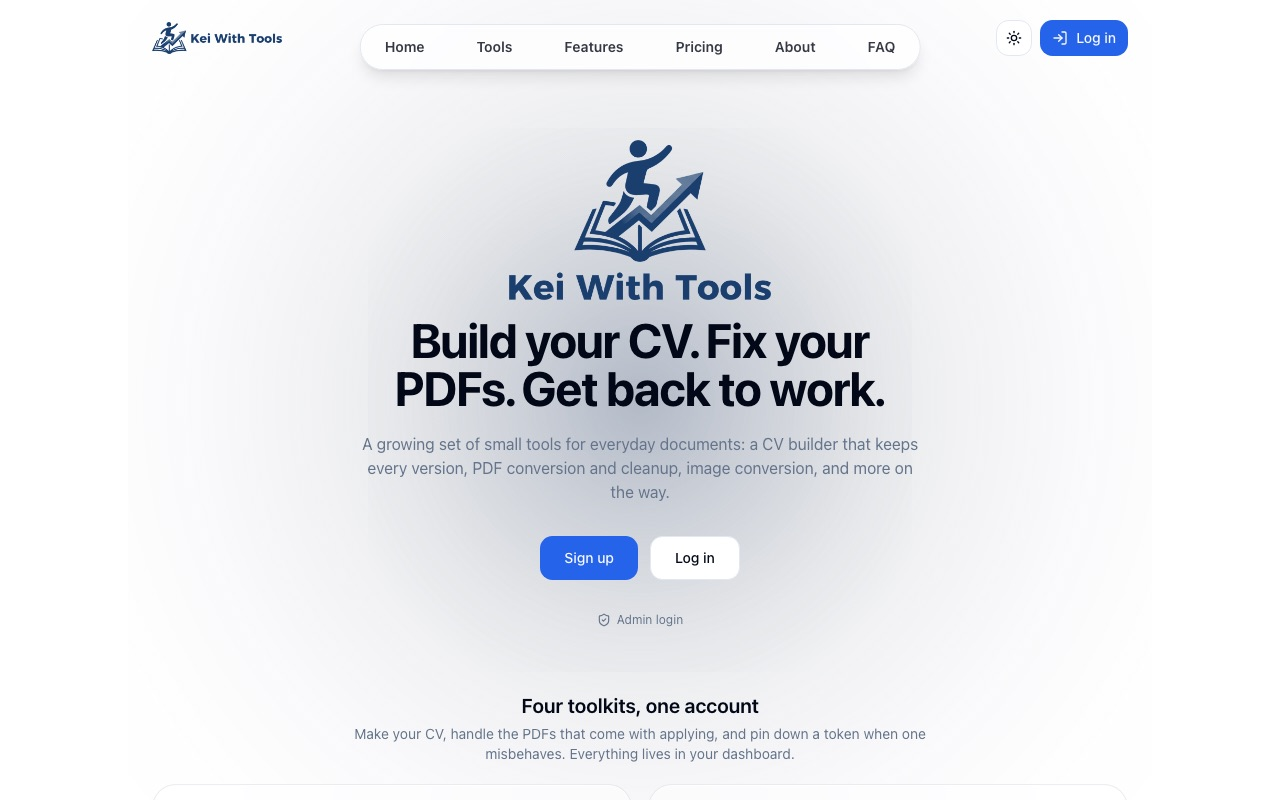
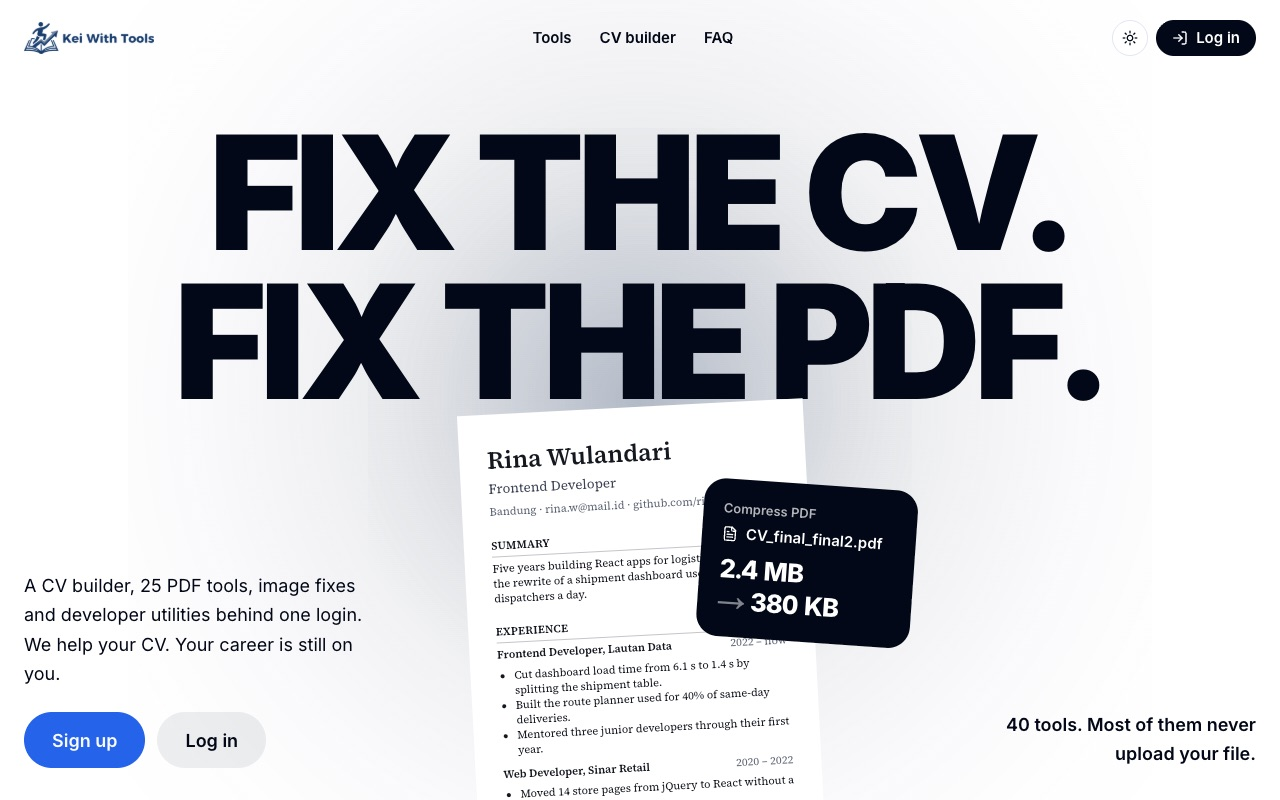
feat(frontend): refresh project screenshots and copy
HelpMyCV: new landing screenshot, 36-tool count, master CV + Edit with AI, Next.js 16.
Undangan+: new screenshot, typed narratives, background music and QRIS.
Jastip: Next.js 16.

diff --git a/packages/shared/src/projects.ts b/packages/shared/src/projects.ts
@@ -31,20 +31,20 @@ export const projects: Project[] = [
     slug: 'helpmycv',
     name: 'Kei With Tools',
     tagline: {
-      en: 'CV builder + 37 PDF, image & developer tools in one account.',
-      id: 'CV builder + 37 alat PDF, gambar & developer dalam satu akun.',
+      en: 'CV builder + 36 PDF, image & developer tools behind one login.',
+      id: 'CV builder + 36 alat PDF, gambar & developer dalam satu akun.',
     },
     description: {
-      en: 'A web app to build and keep many CV versions in one place, with AI-assisted drafting, an A4 live preview, and a growing toolbox that mostly runs in the browser.',
-      id: 'Web app untuk membuat dan menyimpan banyak versi CV di satu tempat, dengan bantuan AI, preview A4 langsung, dan kumpulan alat yang sebagian besar berjalan di browser.',
+      en: 'A web app to keep one master CV and a tailored copy for every job you apply to, with AI that drafts and rewrites on request, an A4 live preview, and a toolbox where most tools never upload your file.',
+      id: 'Web app untuk menyimpan satu CV master dan salinan yang disesuaikan untuk tiap lamaran, dengan AI yang membuat draf dan menulis ulang sesuai perintah, preview A4 langsung, dan kumpulan alat yang sebagian besar tidak meng-upload file kamu.',
     },
     url: 'https://helpmycv-frontend.keianggoro12.workers.dev/',
     image: '/projects/helpmycv.jpg',
-    stack: ['Next.js 15', 'React 19', 'Hono', 'Cloudflare Workers', 'D1', 'R2', 'GitHub Actions'],
+    stack: ['Next.js 16', 'React 19', 'Hono', 'Cloudflare Workers', 'D1', 'R2', 'GitHub Actions'],
     features: [
-      { en: 'Schema-based CV editor with A4 preview and pagination', id: 'Editor CV berbasis skema dengan preview A4 dan pagination' },
-      { en: 'Auto CV from a description or an uploaded CV (OpenAI, Anthropic, Gemini)', id: 'Auto CV dari deskripsi atau CV yang di-upload (OpenAI, Anthropic, Gemini)' },
-      { en: '27 PDF tools, 6 image tools, 4 developer tools', id: '27 alat PDF, 6 alat gambar, 4 alat developer' },
+      { en: 'One master CV, copied and adjusted per job, in a schema-based editor with A4 preview and pagination', id: 'Satu CV master, disalin dan disesuaikan per lamaran, di editor berbasis skema dengan preview A4 dan pagination' },
+      { en: 'Auto CV from a description or an old CV, plus Edit with AI to rewrite it from an instruction (OpenAI, Anthropic, Gemini)', id: 'Auto CV dari deskripsi atau CV lama, plus Edit with AI untuk menulis ulang CV dari instruksi (OpenAI, Anthropic, Gemini)' },
+      { en: '25 PDF tools, 6 image tools, 5 developer tools, most running in the browser', id: '25 alat PDF, 6 alat gambar, 5 alat developer, sebagian besar berjalan di browser' },
       { en: 'Email/password and Google login, EN/ID, light/dark', id: 'Login email/password dan Google, EN/ID, light/dark' },
     ],
     hasAutomation: true,
@@ -102,7 +102,7 @@ export const projects: Project[] = [
     },
     url: 'https://jastip-frontend.keianggoro12.workers.dev/',
     image: '/projects/jastip.jpg',
-    stack: ['Next.js 15', 'React 19', 'Hono', 'Cloudflare Workers', 'D1 + Drizzle', 'R2', 'GitHub Actions'],
+    stack: ['Next.js 16', 'React 19', 'Hono', 'Cloudflare Workers', 'D1 + Drizzle', 'R2', 'GitHub Actions'],
     features: [
       { en: 'Order tracking from warehouse to regional pickup point', id: 'Pelacakan order dari gudang sampai titik ambil di daerah' },
       { en: 'Photo proof on receive, pack, and arrival', id: 'Foto bukti saat diterima, dikemas, dan tiba' },
@@ -126,8 +126,8 @@ export const projects: Project[] = [
     stack: ['React 19', 'Vite', 'Tailwind CSS 4', 'Hono', 'Cloudflare Workers', 'D1 + Drizzle', 'R2'],
     features: [
       { en: 'Personalised guest links, plus a link generator for family without admin access', id: 'Link tamu personal, plus pembuat link untuk keluarga tanpa akses admin' },
-      { en: 'Three server-rendered templates: Romantic, Aesthetic, Simple', id: 'Tiga template yang dirender di server: Romantic, Aesthetic, Simple' },
-      { en: 'RSVP and live wishes, countdown, Google Calendar, Maps, and digital gifts', id: 'RSVP dan ucapan langsung tampil, hitung mundur, Google Calendar, Maps, dan hadiah digital' },
+      { en: 'Three server-rendered templates (Romantic, Aesthetic, Simple), each with typed narrative interludes', id: 'Tiga template yang dirender di server (Romantic, Aesthetic, Simple), masing-masing dengan narasi yang muncul seperti diketik' },
+      { en: 'RSVP and live wishes, countdown, Google Calendar, Maps, background music, and digital gifts with QRIS', id: 'RSVP dan ucapan langsung tampil, hitung mundur, Google Calendar, Maps, musik latar, dan hadiah digital dengan QRIS' },
       { en: 'Per-admin access: each admin sees only their assigned invitations', id: 'Akses per admin: setiap admin hanya melihat undangan yang ditugaskan' },
     ],
     hasAutomation: false,
